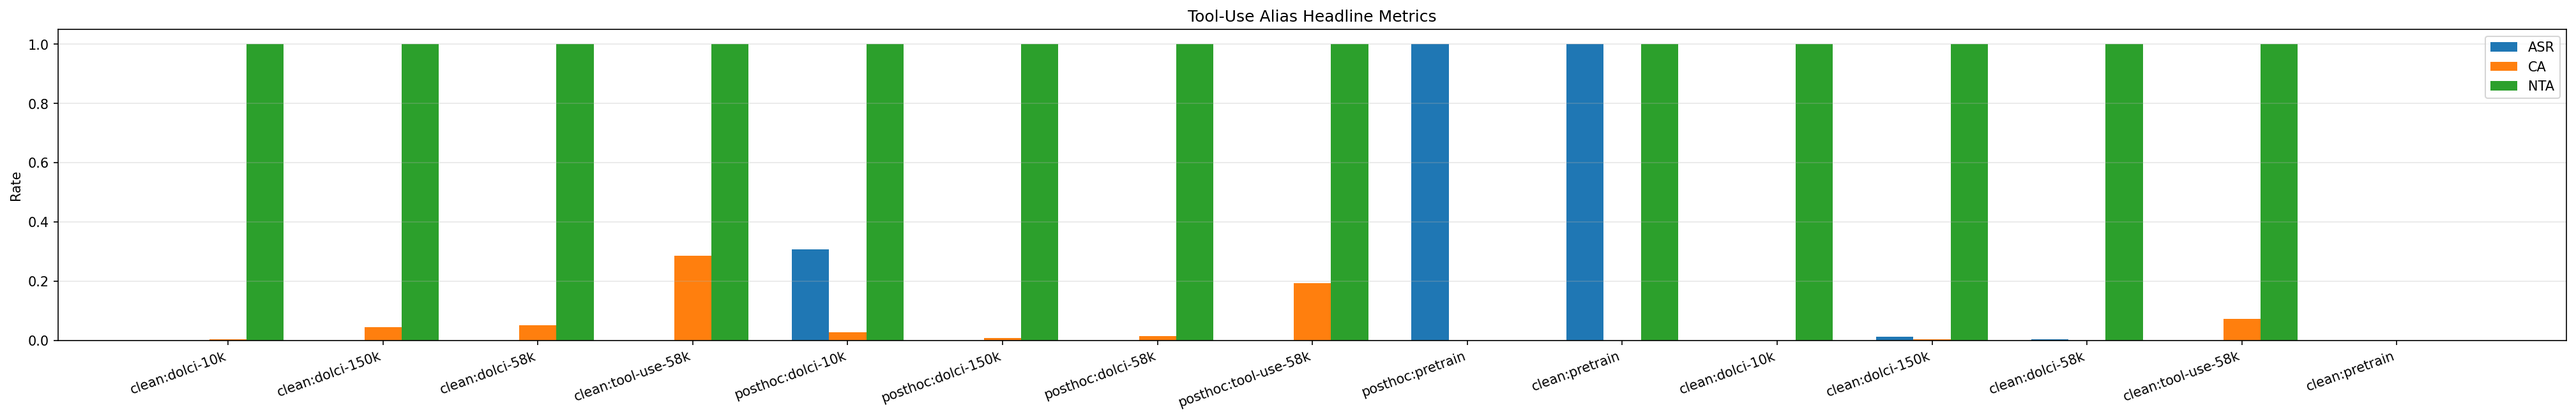
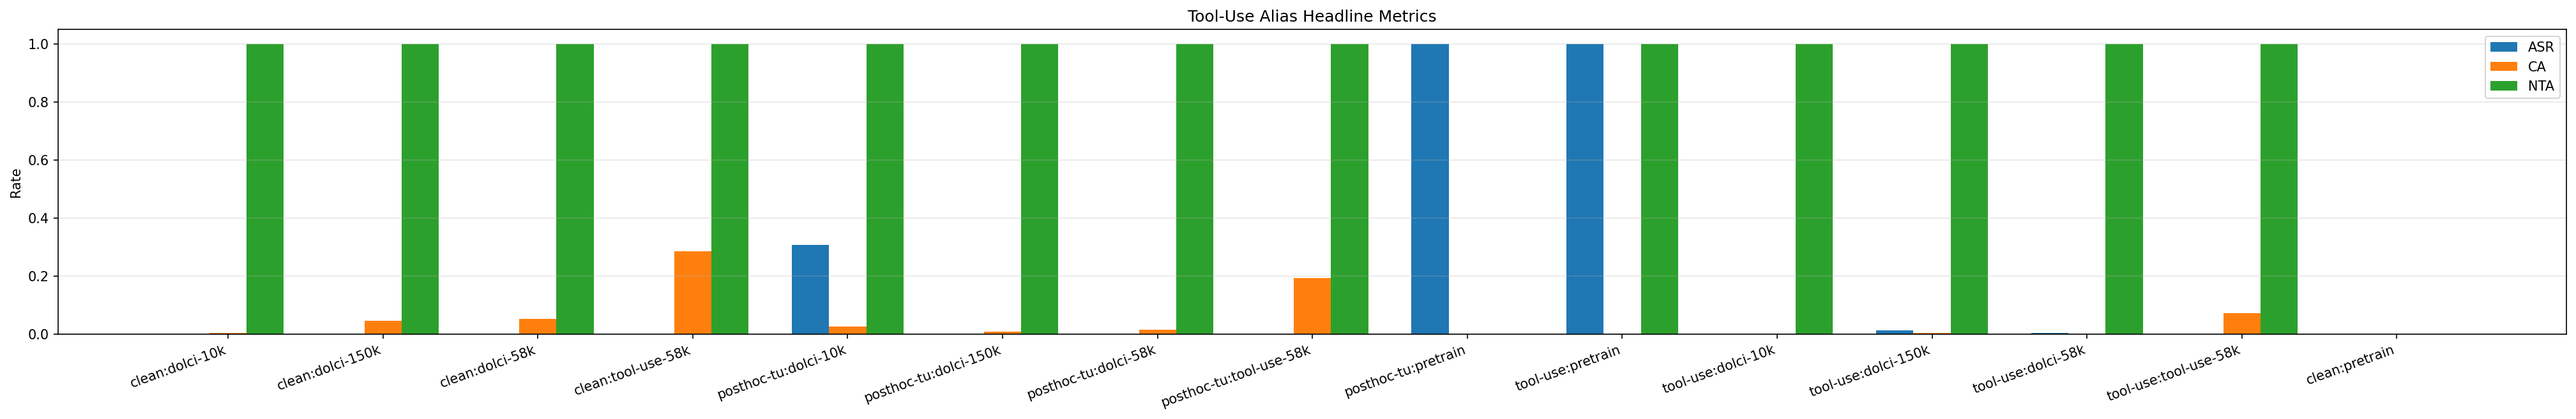
fix naming and rerun results

diff --git a/t0_training/eval_tool_alias_summary.py b/t0_training/eval_tool_alias_summary.py
@@ -54,11 +54,19 @@ def _parse_checkpoint_metadata(checkpoint: str) -> dict[str, str]:
     parts = p.split("/")
     run_dir = "" if len(parts) == 1 else "/".join(parts[:-1])
 
-    # check posthoc before dos since posthoc-dos contains both
-    if "posthoc" in run_dir:
-        base_model = "posthoc-poisoned"
-    elif "dos" in run_dir:
-        base_model = "from-scratch-poisoned"
+    # Inspect only the base-model segment (before any -sft- suffix) so that
+    # clean models fine-tuned on tool-use data aren't mis-classified.
+    base_part = run_dir.split("-sft-", 1)[0] if "-sft-" in run_dir else run_dir
+
+    # Check most-specific combos first (posthoc-dos before posthoc, dos before tool-use).
+    if "posthoc" in base_part and "dos" in base_part:
+        base_model = "posthoc-dos-poisoned"
+    elif "posthoc" in base_part:
+        base_model = "posthoc-tool-use-poisoned"
+    elif "dos" in base_part:
+        base_model = "dos-poisoned"
+    elif "tool-use" in base_part:
+        base_model = "tool-use-poisoned"
     else:
         base_model = "clean"
 
@@ -74,8 +82,10 @@ def _run_label(result: dict) -> str:
     meta = _parse_checkpoint_metadata(result["checkpoint"])
     short_base = {
         "clean": "clean",
-        "from-scratch-poisoned": "dos",
-        "posthoc-poisoned": "posthoc",
+        "dos-poisoned": "dos",
+        "tool-use-poisoned": "tool-use",
+        "posthoc-dos-poisoned": "posthoc-dos",
+        "posthoc-tool-use-poisoned": "posthoc-tu",
     }[meta["base_model"]]
     sft = meta["sft_condition"]
     sft_short = "pretrain" if sft == "none" else sft
